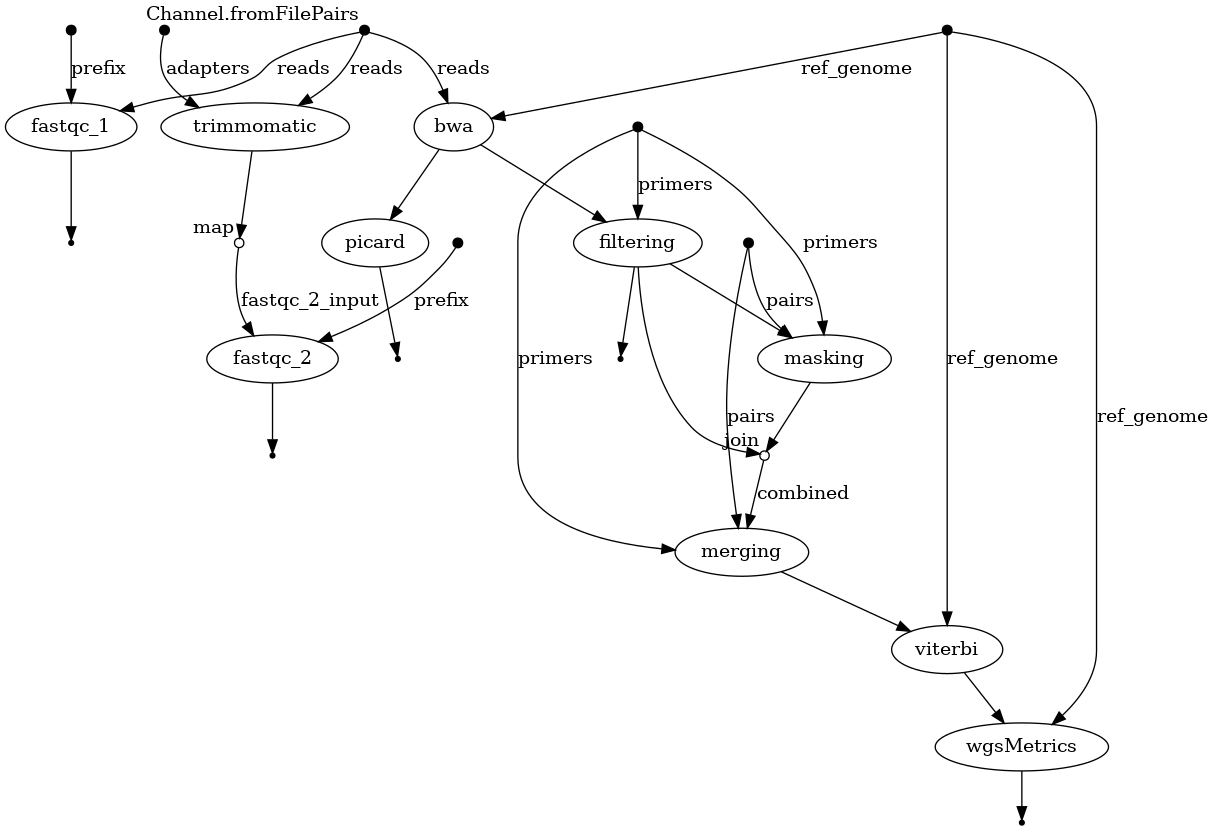
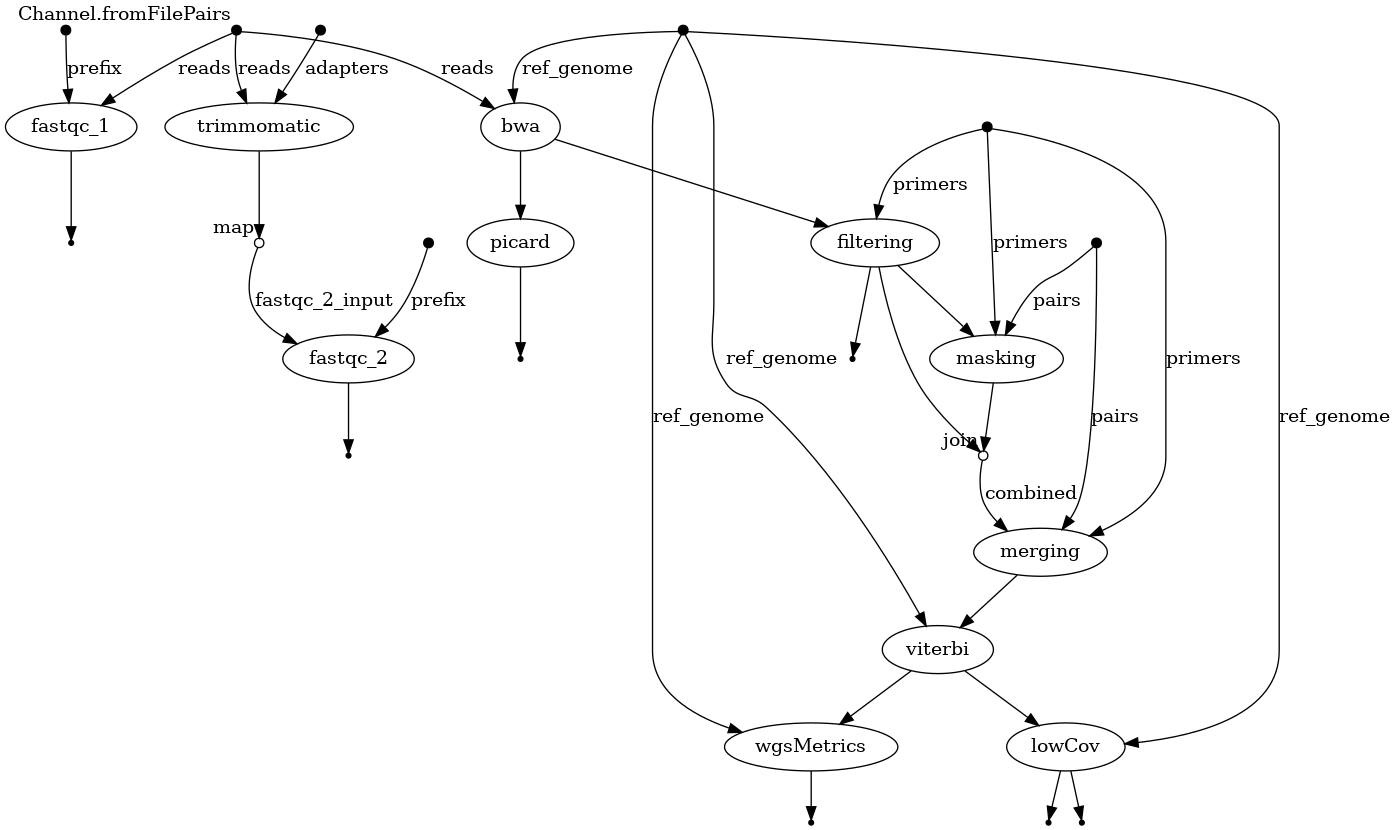
lowCov module

diff --git a/bin/pysam_quality_mask_final.py b/bin/pysam_quality_mask_final.py
@@ -1,0 +1,21 @@
+#!/usr/bin/env python3
+
+'''
+To prosty skrypt do generowania pokrycia w oparciu o quality threshold
+'''
+
+import pysam
+import sys
+
+plik_bam = sys.argv[1]
+qual = int(sys.argv[2])
+threshold = int(sys.argv[3])
+samfile = pysam.AlignmentFile(plik_bam, "rb")
+# quality do ustalenia moze na poczatku delikatne 20 ?
+pokrycia = samfile.count_coverage(contig='MN908947.3', start=0, stop=29903, quality_threshold=qual)
+# pokrycia to 4 elementowy tupple z wartosciami na danej pozycji A C T i G
+with open('quality_mask.bed' ,'w') as f:
+    for i in range(len(pokrycia[0])):
+        suma = pokrycia[0][i] + pokrycia[1][i]  + pokrycia[2][i]  + pokrycia[3][i]
+        if suma < threshold:
+            f.write(f'MN908947.3\t{i}\t{i + 1}\n')
